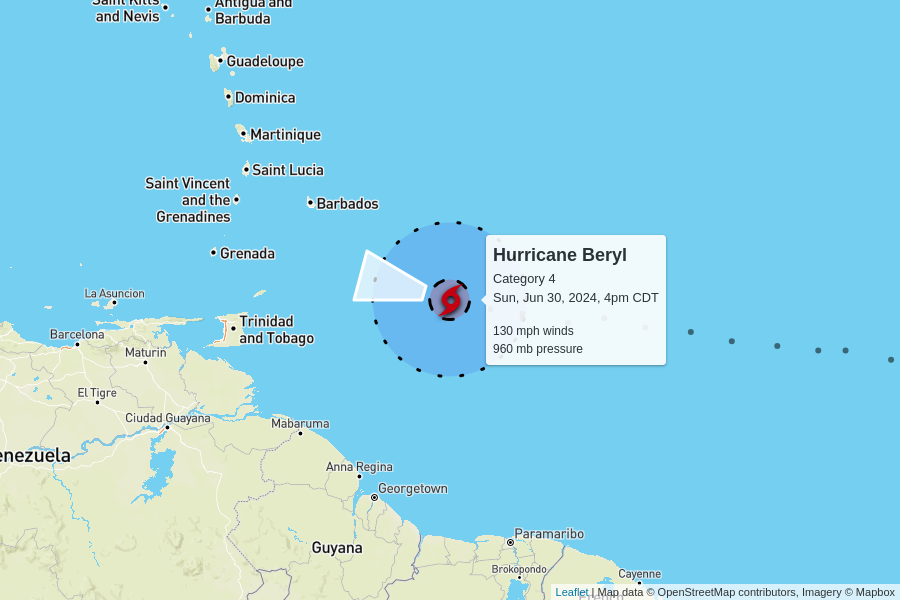
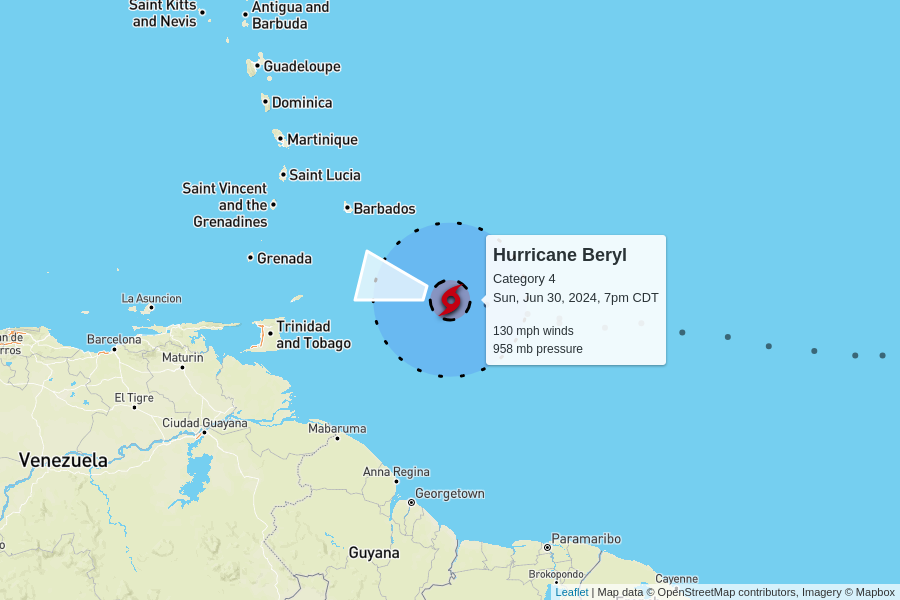
automatic update

diff --git a/docs/index.html b/docs/index.html
@@ -104,7 +104,7 @@
         <td colspan="6" class="storm category-4" >
           <h2>
             Hurricane Beryl - Category 4
-            <p class="updated">last updated <span data-time>2024-06-30T21:00:00.000Z</span></p>
+            <p class="updated">last updated <span data-time>2024-07-01T00:00:00.000Z</span></p>
           </h2>
         </td>
       </tr>
@@ -120,7 +120,7 @@
       <tr>
         <td class="spacer"></td>
         <td>130 mph<br>0 mph since last update</td>
-        <td>960 mb<br>0 mb since last update</td>
+        <td>958 mb<br>-2 mb since last update</td>
         <td>
           18 mph to the west-northwest
           <br/>
@@ -148,7 +148,7 @@
         <td colspan="6" class="storm category-0" >
           <h2>
             Tropical Depression Three
-            <p class="updated">last updated <span data-time>2024-06-30T21:00:00.000Z</span></p>
+            <p class="updated">last updated <span data-time>2024-07-01T00:00:00.000Z</span></p>
           </h2>
         </td>
       </tr>
@@ -163,8 +163,8 @@
       </tr>
       <tr>
         <td class="spacer"></td>
-        <td>35 mph</td>
-        <td>1006 mb</td>
+        <td>35 mph<br>0 mph since last update</td>
+        <td>1006 mb<br>0 mb since last update</td>
         <td>
           12 mph to the west
           <br/>
